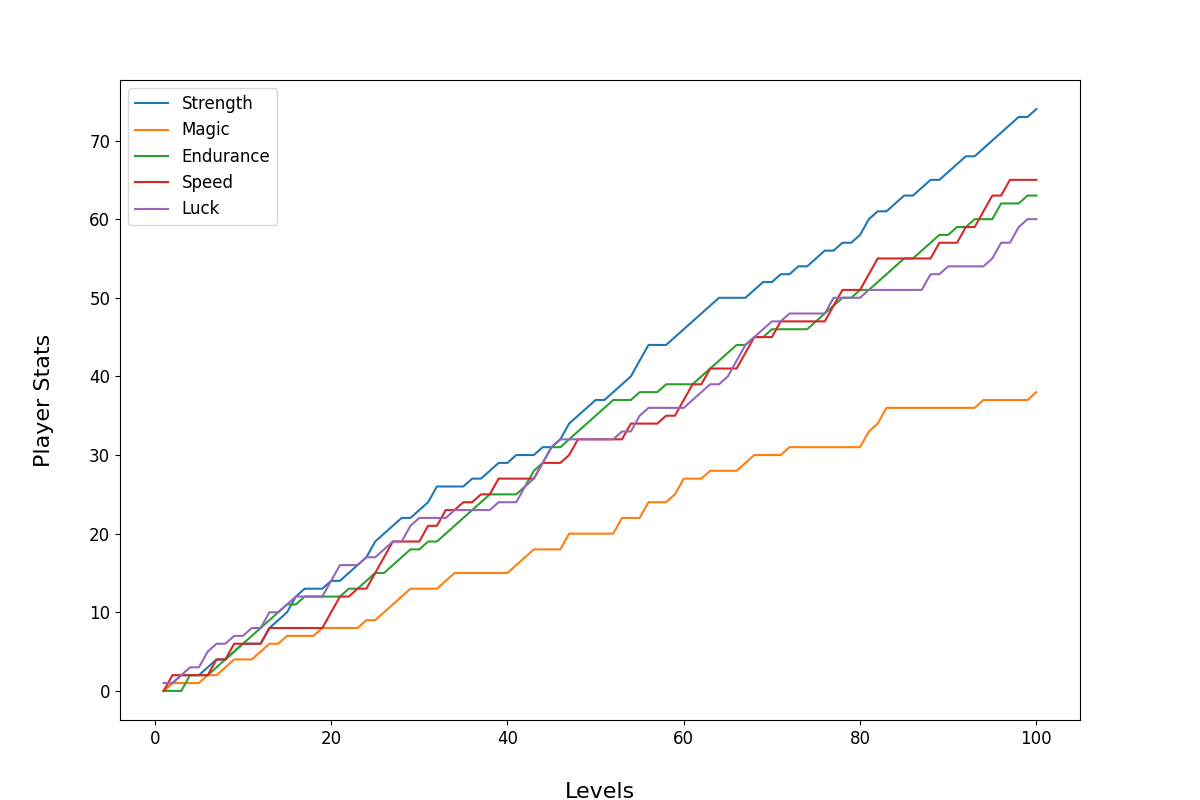
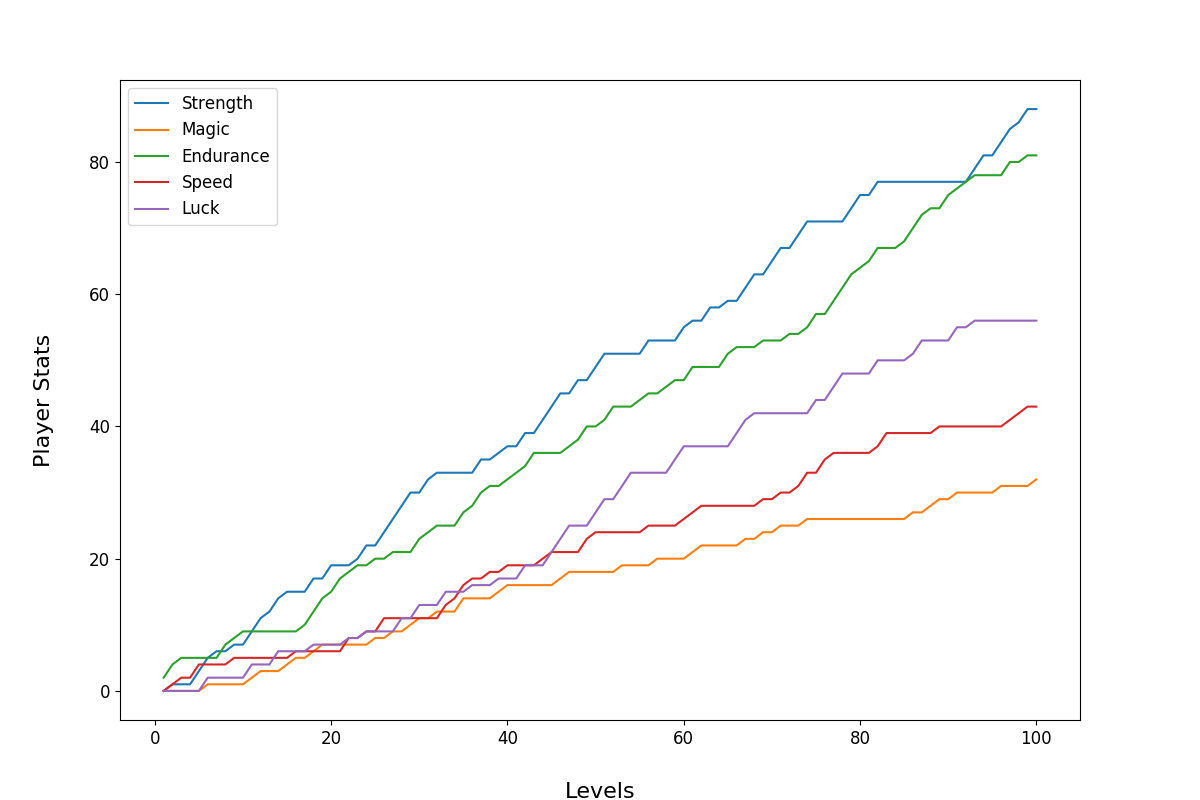
the MP stats for player disappear

diff --git a/PlayerStats.py b/PlayerStats.py
@@ -29,16 +29,16 @@ def protagonist_char():
     protagonist.show_range_levels()
 
     # [RANGE CHARACTERS HP]
-    start_hp = 159
-    next_hp = 163
+    start_hp = 224
+    next_hp = 228
     graph_title = "Player HP Distribution"
 
     protagonist.range_health_points(start_hp, next_hp, 'HP')
     protagonist.show_range_health_points(graph_title, title=False)
 
     # [RANGE CHARACTERS MP]
-    start_mp = 89
-    next_mp = 93
+    start_mp = 100
+    next_mp = 102
     graph_title = "Player MP Distribution"
 
     protagonist.range_magic_points(start_mp, next_mp, 'MP')
@@ -53,14 +53,14 @@ def protagonist_char():
     Override this function when have different weaknesses concept!
     """
     elements_name = ['Phys', 'Water', 'Wind', 'Earth', 'Fire']
-    char_weak_number = [0, 2, 0, 0, 1]
+    char_weak_number = [0, 0, 2, 1, 2]
 
     protagonist.range_element_weak(elements_name, char_weak_number)
     protagonist.show_element_weak()
 
     # [RANGE CHARACTERS STATS]
     name_stats = ['Strength', 'Magic', 'Endurance', 'Speed', 'Luck']
-    stats_max_value = [74, 38, 63, 65, 60]
+    stats_max_value = [88, 32, 81, 43, 56]
     stats_to_assign = [2, 1]
     graph_title = "Player Stats Distribution"
 
